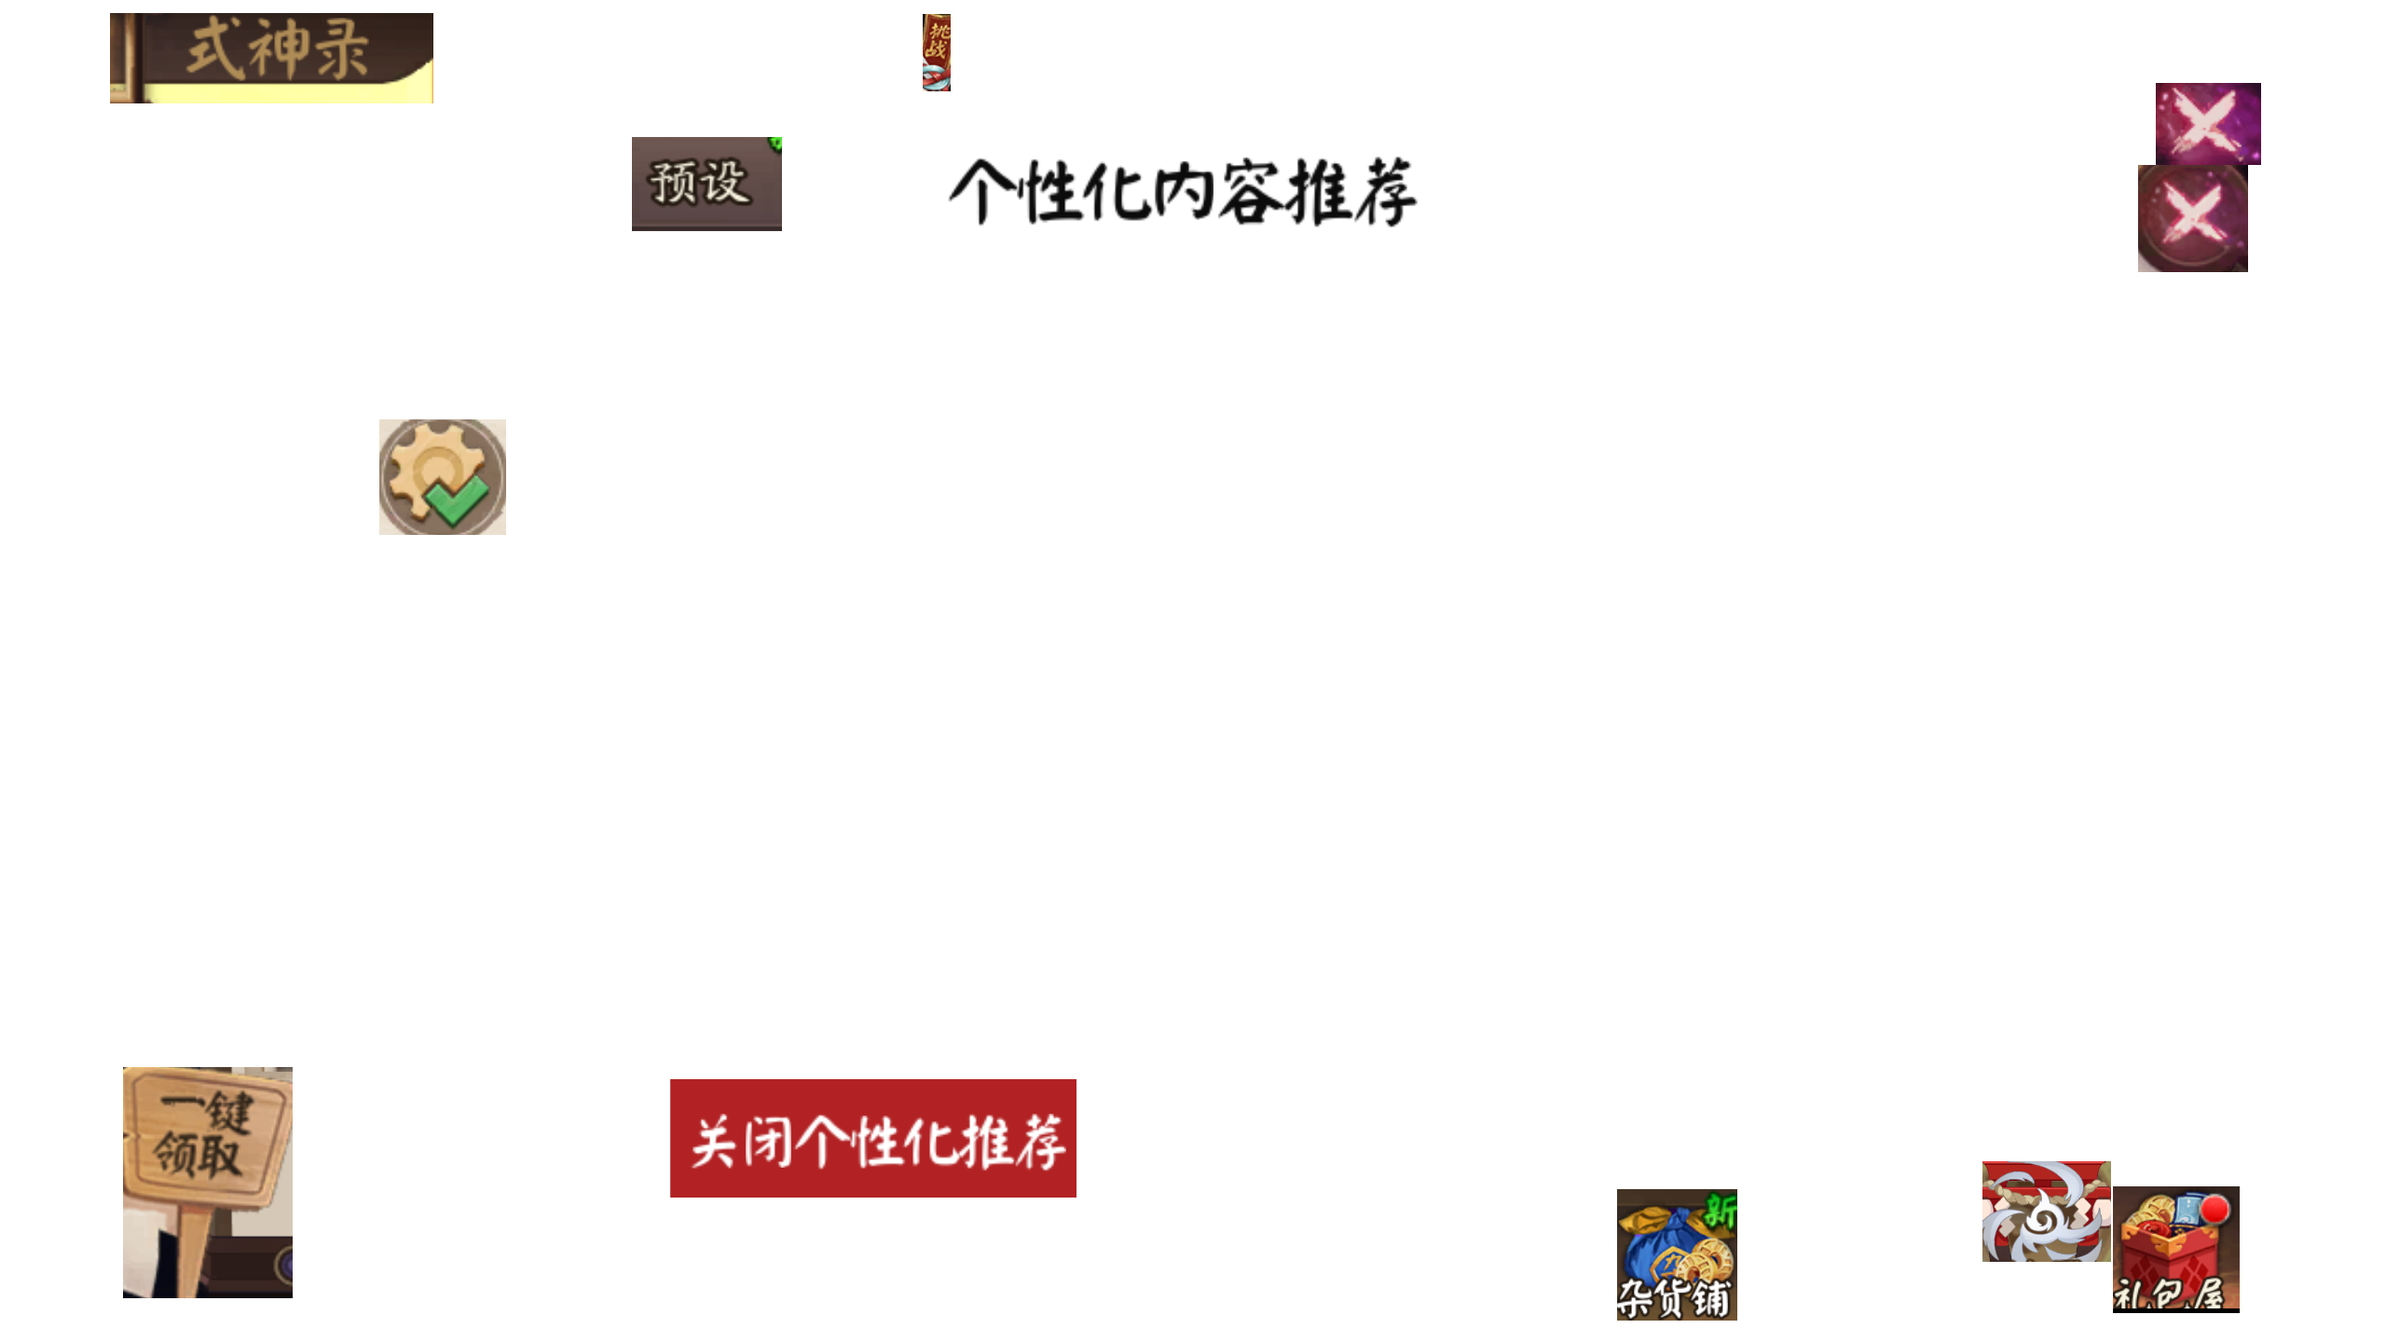
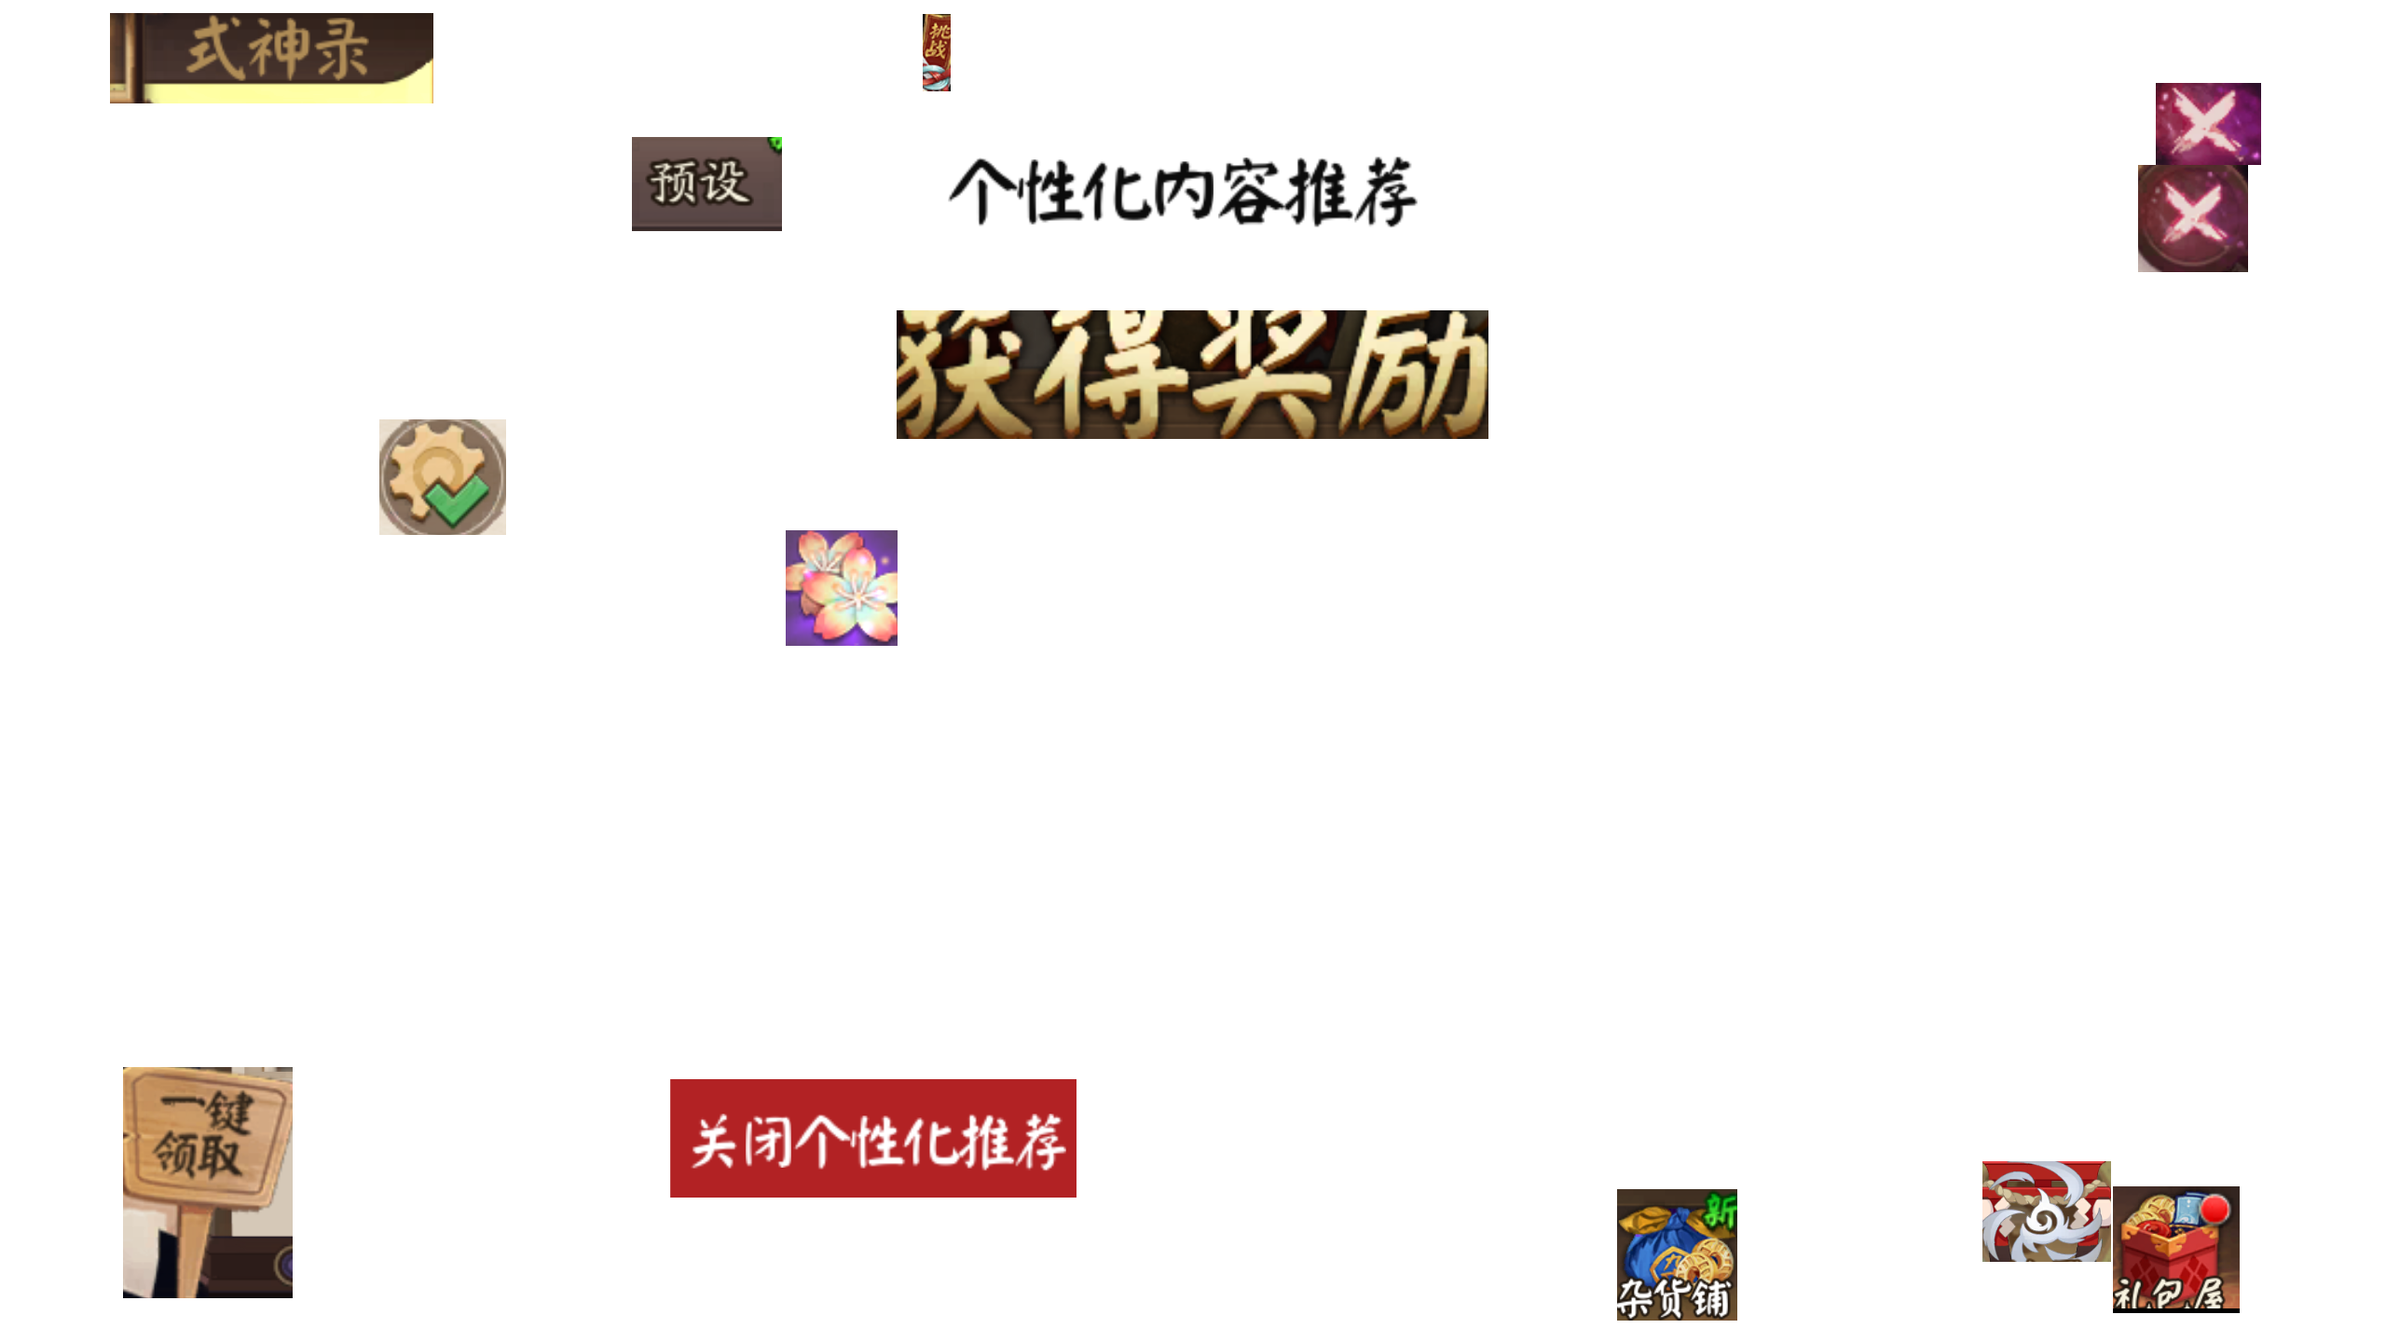
周年庆爬塔

Changed region(s): [[0.375, 0.2188, 0.625, 0.3438], [0.3125, 0.375, 0.375, 0.5]]

diff --git a/src/tasks/GameEventsBattleTask.py b/src/tasks/GameEventsBattleTask.py
@@ -9,7 +9,7 @@ class GameEventsBattleTask(BaseBattleTask):
     def __init__(self, *args, **kwargs):
         super().__init__(*args, **kwargs)
         self.name = "活动-战斗-当期爬塔"
-        self.description = "2026.8.19洛天依联动爬塔"
+        self.description = "2026.9.9周年庆爬塔,建议每日手动领取活动票，消除弹窗"
         self.count = 0
 
 
@@ -45,44 +45,66 @@ class GameEventsBattleTask(BaseBattleTask):
         self.Battle()
 
     def Battle_page(self):
-        self.click_rect_random((0.33, 0.34, 0.4, 0.45))
-        self.sleep(1)
-        if self.wait_click_ocr(match=re.compile("神威|破障|战斗"),
+        self.click_rect_random((0.35, 0.33, 0.38, 0.37))
+        self.sleep(3)
+        if self.wait_ocr(match=re.compile("战斗|回响|日地"),
                              time_out=3,
-                             box=self.box_of_screen(0.46, 0.5, 0.54, 0.84),
+                             box=self.box_of_screen(0.2, 0.15, 0.37, 0.48),
                              raise_if_not_found=False):
-            self.log_info("进入战斗")
-            return True
-        elif self.wait_ocr(match=re.compile("获得|奖励"),
-                           time_out=3,
-                           box=self.box_of_screen(0.37, 0.24, 0.63, 0.39),
-                           raise_if_not_found=False):
-            self.sleep(0.5)
-            self.click_rect_random((0.86, 0.25, 0.89, 0.31))
+            self.log_info("进入战斗页面")
             self.sleep(1)
-            self.click_rect_random((0.86, 0.25, 0.89, 0.31))
-            if self.wait_click_ocr(match=re.compile("神威|破障|战斗"),
-                                   time_out=3,
-                                   box=self.box_of_screen(0.46, 0.5, 0.54, 0.84),
-                                   raise_if_not_found=False):
+            self.click_rect_random((0.25, 0.27, 0.29, 0.37))
+            self.sleep(3)
+            if self.wait_click_ocr(match=re.compile("虚无|精锐|战斗"),
+                                 time_out=3,
+                                 box=self.box_of_screen(0.01, 0.12, 0.23, 0.24),
+                                 raise_if_not_found=False):
                 self.log_info("进入战斗")
+                self.sleep(1)
                 return True
+        elif self.wait_feature('Event_Finish_2', threshold=0.7,
+                                    box=self.box_of_screen(0.34, 0.22, 0.65, 0.44),
+                                        raise_if_not_found=False,
+                                        time_out=3):
+            self.sleep(0.5)
+            self.click_rect_random((0.89, 0.24, 0.92, 0.29))
+            self.sleep(1)
+            self.click_rect_random((0.7, 0.86, 0.73, 0.93))
+            self.sleep(1)
+            self.click_rect_random((0.89, 0.24, 0.92, 0.29))
+            self.sleep(1)
+            self.click_rect_random((0.89, 0.24, 0.92, 0.29))
+            if self.wait_ocr(match=re.compile("战斗|回响|日地"),
+                             time_out=3,
+                             box=self.box_of_screen(0.2, 0.15, 0.37, 0.48),
+                             raise_if_not_found=False):
+                self.log_info("进入战斗页面")
+                self.sleep(1)
+                self.click_rect_random((0.25, 0.27, 0.29, 0.37))
+                self.sleep(3)
+                if self.wait_click_ocr(match=re.compile("虚无|精锐|战斗"),
+                                       time_out=3,
+                                       box=self.box_of_screen(0.01, 0.12, 0.23, 0.24),
+                                       raise_if_not_found=False):
+                    self.log_info("进入战斗")
+                    self.sleep(1)
+                    return True
         else:
             self.log_warning("没有进入战斗页面")
             return False
 
     def Battle(self):
-        if self.wait_ocr(match=re.compile("养成|协战|式神"),
+        if self.wait_ocr(match=re.compile("虚无|精锐"),
                          time_out=3,
-                         box=self.box_of_screen(0.65,0.82,0.84,0.9)):
-            self.sleep(0.5)
-            if self.ocr(match=re.compile("必定|双倍|掉落"),
-                             box=self.box_of_screen(0.01, 0.75, 0.32, 0.88)):
+                         box=self.box_of_screen(0,0,0.3,0.15)):
+            self.sleep(3)
+            if self.ocr(match=re.compile("御魂|自选"),
+                             box=self.box_of_screen(0.0, 0.60, 0.21, 0.70)):
+                self.log_info("现在是普通模式")
+                self.isap = False
+            else:
                 self.log_info("现在是体力模式")
                 self.isap = True
-            else:
-                self.log_info("现在是爬塔模式")
-                self.isap = False
         else:
             self.log_warning("没有进入战斗页面")
             return False
@@ -92,22 +114,22 @@ class GameEventsBattleTask(BaseBattleTask):
             self.log_info(f"体力爬塔票数{self.ap_tickets}")
             self.log_info(f"普通爬塔票数：{self.general_tickets}")
         else:
-            if text := self.ocr(threshold=0.8,box=self.box_of_screen(0.43, 0.03, 0.49, 0.09)):
+            if text := self.ocr(threshold=0.8,box=self.box_of_screen(0.58, 0.0, 0.66, 0.1)):
                 nums = re.findall(r'\d+', text[0].name)
                 self.general_tickets = int(nums[0]) if nums else 0
                 self.log_info(f"普通爬塔票数：{self.general_tickets}")
 
-            if text := self.ocr(threshold=0.8,box=self.box_of_screen(0.75, 0.03, 0.8, 0.09)):
+            if text := self.ocr(threshold=0.8,box=self.box_of_screen(0.42, 0.0, 0.54, 0.1)):
                 nums = re.findall(r'\d+', text[0].name)
                 self.ap_tickets = int(nums[0]) if nums else 0
                 self.log_info(f"体力爬塔票数{self.ap_tickets}")
 
         if self.config["Lock Team Enable"]:
             # 解锁状态 准备换队伍
-            self.Lock_team((0.61, 0.89, 0.66, 0.97), lock=False)
+            self.Lock_team((0.66, 0.88, 0.72, 0.99), lock=False)
         else:
             # 不换
-            self.Lock_team((0.61, 0.89, 0.66, 0.97), lock=True)
+            self.Lock_team((0.66, 0.88, 0.72, 0.99), lock=True)
 
 
         if self.config["GeneralClimb"]:
@@ -117,12 +139,12 @@ class GameEventsBattleTask(BaseBattleTask):
                 self.next_sleep_count = random.randrange(*(self.count_range))
                 self.log_info(f"下次休息{self.next_sleep_count}")
             if self.isap:
-                self.click_rect_random((0.97, 0.76, 0.99, 0.79))
-                self.log_info("切换为体力爬塔")
+                self.click_rect_random((0.96, 0.76, 0.98, 0.79))
+                self.log_info("切换为普通爬塔")
                 self.isap = False
                 self.sleep(0.5)
             else:
-                self.log_info("爬塔")
+                self.log_info("普通爬塔")
             while self.count < self.general_tickets:
                 self.Battle_process()
                 self.count += 1
@@ -131,16 +153,16 @@ class GameEventsBattleTask(BaseBattleTask):
                     if self.count >= self.next_sleep_count:
                         self.next_sleep_count = self.count + random.randrange(*(self.count_range))
                         a = random.randrange(*(self.time_range))
-                        self.log_info(f"第 {self.count} 次爬塔战斗结束,休息{a}秒，下次休息{self.next_sleep_count}")
+                        self.log_info(f"第 {self.count} 次普通爬塔战斗结束,休息{a}秒，下次休息{self.next_sleep_count}")
                         self.sleep(a)
-                self.log_info(f"第 {self.count} 次爬塔战斗结束 总共{self.general_tickets}，下次休息{self.next_sleep_count}")
+                self.log_info(f"第 {self.count} 次普通爬塔战斗结束 总共{self.general_tickets}，下次休息{self.next_sleep_count}")
 
         if self.config["ApMode"]:
             self.count=0
             if self.is_sleep:
                 self.next_sleep_count = random.randrange(*(self.count_range))
             if not self.isap:
-                self.click_rect_random((0.97, 0.76, 0.99, 0.79))
+                self.click_rect_random((0.96, 0.76, 0.98, 0.79))
                 self.log_info("切换为刷体力")
                 self.isap = True
                 self.sleep(0.5)
@@ -162,43 +184,50 @@ class GameEventsBattleTask(BaseBattleTask):
 
     def Battle_process(self):
         def check():
-            if res := self.wait_feature('Battle_Finish', threshold=0.7,
-                                    box=self.B('Battle_Finish'),
+            if res := self.wait_feature('Event_Finish', threshold=0.7,
+                                    box=self.box_of_screen(0.28, 0.15, 0.71, 0.63),
                                         raise_if_not_found=False,
                                         time_out=1):
                 self.sleep(2)
                 if random.randint(1, 2) == 1:
-                    self.click_rect_random((0.18, 0.77, 0.88, 0.95))
+                    self.click_rect_random((0.3, 0.03, 0.69, 0.28))
                     self.log_info("点击上面")
                 else:
-                    self.click_rect_random(res)
+                    self.click_rect_random((0.3, 0.03, 0.69, 0.28))
                     self.log_info("点击下面")
                 self.sleep(2)
-                if res1 := self.find_one('Battle_Finish', threshold=0.7,
-                                    box=self.B('Battle_Finish')):
+                if res1 := self.find_one('Event_Finish', threshold=0.7,
+                                    box=self.box_of_screen(0.28, 0.15, 0.71, 0.63)):
                     self.sleep(2)
                     if random.randint(1, 2) == 1:
-                        self.click_rect_random((0.18, 0.05, 0.9, 0.21))
+                        self.click_rect_random((0.3, 0.03, 0.69, 0.28))
+                        self.log_info("点击上面")
                     else:
-                        self.click_rect_random(res1)
+                        self.click_rect_random((0.3, 0.03, 0.69, 0.28))
+                        self.log_info("点击下面")
                     self.sleep(0.5)
                     self.log_info("第一次没点到")
                     return True
                 else:
                     self.log_info("第一次点到")
                     return True
-            if res := self.find_one('Battle_Finish_Soul', threshold=0.7,
-                                        box=self.B('Battle_Finish_Soul')):
+            if res := self.find_one('Event_Finish_2', threshold=0.7,
+                                        box=self.box_of_screen(0.28, 0.15, 0.71, 0.63)):
                 if random.randint(1, 2) == 1:
-                    self.click_rect_random((0.18, 0.77, 0.88, 0.95))
+                    self.click_rect_random((0.3, 0.03, 0.69, 0.28))
                     self.log_info("点击上面")
                 else:
-                    self.click_rect_random(res)
+                    self.click_rect_random((0.3, 0.03, 0.69, 0.28))
                     self.log_info("点击下面")
-                self.sleep(1)
-                if res1 := self.find_one('Battle_Finish_Soul', threshold=0.7,
-                                        box=self.B('Battle_Finish_Soul')):
-                    self.click_rect_random((0.18, 0.05, 0.9, 0.21))
+                self.sleep(2)
+                if res1 := self.find_one('Event_Finish_2', threshold=0.7,
+                                         box=self.box_of_screen(0.28, 0.15, 0.71, 0.63)):
+                    if random.randint(1, 2) == 1:
+                        self.click_rect_random((0.3, 0.03, 0.69, 0.28))
+                        self.log_info("点击上面")
+                    else:
+                        self.click_rect_random((0.3, 0.03, 0.69, 0.28))
+                        self.log_info("点击下面")
                     self.log_info("第一次没点到")
                     self.sleep(1)
                     return True
@@ -208,11 +237,11 @@ class GameEventsBattleTask(BaseBattleTask):
 
         if self.config["Lock Team Enable"] and self.count == 2:
             self.log_info("进入第二次战斗锁住阵容")
-            self.Lock_team((0.14, 0.82, 0.2, 0.9), lock=True)
+            self.Lock_team((0.66, 0.88, 0.72, 0.99), lock=True)
 
         if text := self.wait_ocr(match=re.compile("挑战"),
-                                 box=self.box_of_screen(0.88,0.83,0.95,0.91)):
-            self.click_rect_random((0.88, 0.8, 0.96, 0.92))
+                                 box=self.box_of_screen(0.87, 0.8, 0.96, 0.95)):
+            self.click_rect_random((0.88, 0.82, 0.96, 0.94))
         if self.count == 1:
             self.log_info("进入检测1")
             if self.config["Lock Team Enable"]:

diff --git a/tests/test3.py b/tests/test3.py
@@ -17,7 +17,7 @@ task.feature_set = ok_test.feature_set
 task.after_init(executor=ok_test.task_executor, scene=ok_test.task_executor.scene)
 
 # ---- 设置测试图片 ----
-IMAGE = "tests\img/5.png"
+IMAGE = "tests\img/2.png"
 ok_test.device_manager.capture_method.set_images([IMAGE])
 frame = task.next_frame()
 h, w = frame.shape[:2]
@@ -26,8 +26,8 @@ h, w = frame.shape[:2]
 # 修改 box= 参数即可，蓝色区域会自动跟着变
 searches = [
     # ("Lock",  task.box_of_screen(0.86, 0.93, 0.9, 1.0)),
-    ("Daily_New_Cancel",  task.box_of_screen(0.57, 0.12, 0.66, 0.24)),
-    ("Kekkai_Activation",  task.box_of_screen(0.67, 0.36, 0.75, 0.59)),
+    ("Event_Finish",  task.box_of_screen(0.34, 0.22, 0.65, 0.44)),
+    ("Event_Finish_2",  task.box_of_screen(0.34, 0.22, 0.65, 0.44)),
     # ("Exploration_GoryouRealm",  task.box_of_screen(0.86, 0.93, 0.9, 1.0)),
     
     # ("Areaboss_Not_Lock",   task.box_of_screen(0.86,0.88,1,1)),

diff --git a/tests/test5.py b/tests/test5.py
@@ -17,7 +17,7 @@ task.feature_set = ok_test.feature_set
 task.after_init(executor=ok_test.task_executor, scene=ok_test.task_executor.scene)
 
 # ---- 设置测试图片 ----
-IMAGE = "tests\img/2.png"
+IMAGE = "tests\img/8.png"
 ok_test.device_manager.capture_method.set_images([IMAGE])
 frame = task.next_frame()
 h, w = frame.shape[:2]
@@ -27,7 +27,11 @@ h, w = frame.shape[:2]
 ocr_configs = [
     # (OCR区域 x,y,to_x,to_y,  匹配文本/正则,  框颜色)
     # (0.31, 0.03, 0.35, 0.11,           re.compile('觉醒|御魂|金币增加100|经验增加100'),            (255, 0, 0)),
-    (0.39, 0.07, 0.62, 0.28,None,(255, 0, 0)),
+    # (0.81, 0.1, 0.99, 0.72,None,(255, 0, 0)),
+    (0.33, 0.13, 0.66, 0.4,None,(255, 0, 0)),
+    (0.42, 0.0, 0.54, 0.1,None,(255, 0, 0)),
+    # (0.01, 0.12, 0.23, 0.24,None,(255, 0, 0)),
+    # (0.01, 0.12, 0.23, 0.24,None,(255, 0, 0)),
     # (0.75, 0.03, 0.8, 0.09, None, (255, 0, 0)),
 
 ]
